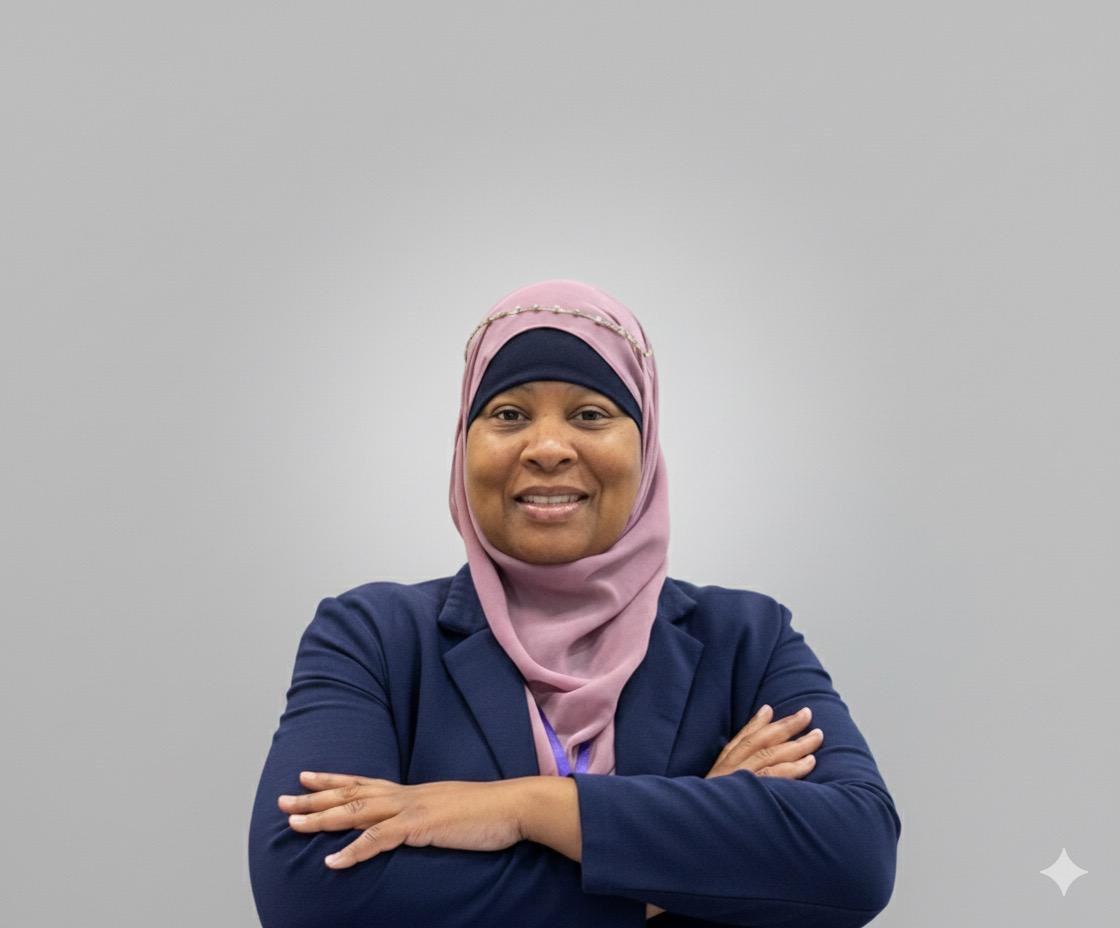
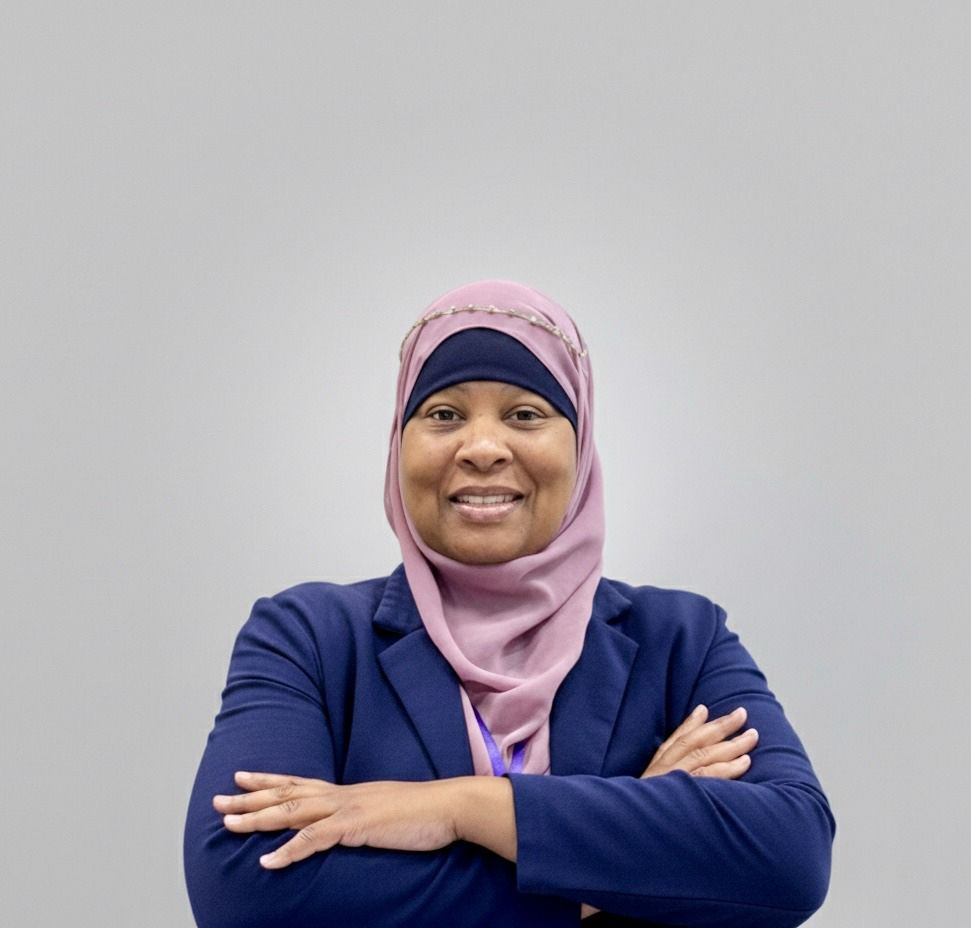
Update branding and UI improvements
- Set default theme to light mode for better initial UX
- Update YouTube embed link to latest demo video
- Update dr-jones.jpg image in about section
- Streamline hero section by removing redundant text
- Remove social media icons from footer
- Update contact email to info@taskfixer.ai

🤖 Generated with [Claude Code](https://claude.com/claude-code)

Changed region(s): [[0.1854, 0.3125, 0.8651, 1.0], [0.9269, 0.9062, 0.9578, 0.9688], [0.6797, 0.9375, 0.7106, 0.9688]]

diff --git a/app/components/landing/Footer.tsx b/app/components/landing/Footer.tsx
@@ -1,4 +1,3 @@
-import { Linkedin, Youtube, Instagram } from 'lucide-react';
 import LegalNotice from './LegalNotice';
 
 const Footer = () => {
@@ -40,34 +39,10 @@ const Footer = () => {
           </a>
           <span className="text-white/40 hidden sm:inline">|</span>
           <a
-            href="mailto:info@creativetransformations.consulting"
+            href="mailto:info@taskfixer.ai"
             className="text-white/80 hover:text-white transition-colors text-xs sm:text-sm md:text-base break-all sm:break-normal"
           >
-            Contact: info@creativetransformations.consulting
-          </a>
-        </div>
-
-        <div className="flex justify-center gap-4 sm:gap-5 md:gap-6">
-          <a
-            href="#linkedin"
-            className="w-9 h-9 sm:w-10 sm:h-10 bg-white/10 hover:bg-white/20 rounded-full flex items-center justify-center transition-colors"
-            aria-label="LinkedIn"
-          >
-            <Linkedin className="w-4 h-4 sm:w-5 sm:h-5" />
-          </a>
-          <a
-            href="#youtube"
-            className="w-9 h-9 sm:w-10 sm:h-10 bg-white/10 hover:bg-white/20 rounded-full flex items-center justify-center transition-colors"
-            aria-label="YouTube"
-          >
-            <Youtube className="w-4 h-4 sm:w-5 sm:h-5" />
-          </a>
-          <a
-            href="#instagram"
-            className="w-9 h-9 sm:w-10 sm:h-10 bg-white/10 hover:bg-white/20 rounded-full flex items-center justify-center transition-colors"
-            aria-label="Instagram"
-          >
-            <Instagram className="w-4 h-4 sm:w-5 sm:h-5" />
+            Contact: info@taskfixer.ai
           </a>
         </div>
 

diff --git a/app/components/landing/Hero.tsx b/app/components/landing/Hero.tsx
@@ -54,18 +54,6 @@ const Hero = () => {
                 and assessments into cheat-resistant, high-rigor learning tasks
                 while teaching students to use AI responsibly.
               </p>
-              <p
-                className="text-sm sm:text-[13px] md:text-[13px] lg:text-[15px] text-white mb-4 sm:mb-3 leading-relaxed"
-                style={{
-                  textShadow: '0 1px 1px rgba(0, 0, 0, 0.3)',
-                }}
-              >
-                AI is not the enemy. It is an opportunity to rethink learning.
-                TaskFixerAI helps teachers, professors, and instructional
-                leaders redesign assignments that make students think deeper,
-                apply knowledge, and develop original work, not copy what AI
-                gives them.
-              </p>
             </div>
 
             <div className="flex flex-col sm:flex-row gap-3 sm:gap-3 pt-3 sm:pt-2 justify-center px-2 sm:px-0">
@@ -100,7 +88,7 @@ const Hero = () => {
             <div className="w-full aspect-video">
               <iframe
                 className="w-full h-full rounded-xl shadow-2xl"
-                src="https://www.youtube.com/embed/YL4tGXECU1I"
+                src="https://www.youtube.com/embed/IfVU-uHJap0?si=cbNsIb3AmJ3hjUYE"
                 title="TaskFixerAI Demo"
                 frameBorder="0"
                 allow="accelerometer; autoplay; clipboard-write; encrypted-media; gyroscope; picture-in-picture"

diff --git a/app/contexts/ThemeProvider.tsx b/app/contexts/ThemeProvider.tsx
@@ -8,7 +8,7 @@ import { createClient } from '@/lib/supabase/client'
 
 export function ThemeProvider({ children }: { children: React.ReactNode }) {
   const { user, profile } = useAuth()
-  const [theme, setThemeState] = useState<ThemePreference>('dark')
+  const [theme, setThemeState] = useState<ThemePreference>('light')
   const [loading, setLoading] = useState(true)
 
   // Load theme from user profile or localStorage
@@ -25,7 +25,7 @@ export function ThemeProvider({ children }: { children: React.ReactNode }) {
           setThemeState(savedTheme)
           applyTheme(savedTheme)
         } else {
-          applyTheme('dark')
+          applyTheme('light')
         }
       }
       setLoading(false)
